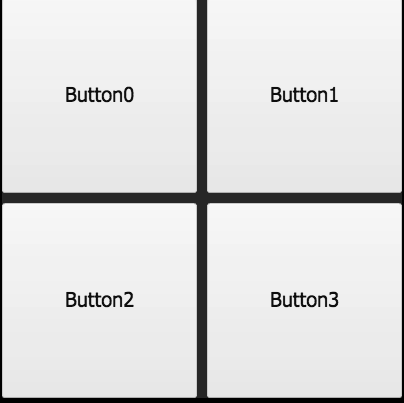
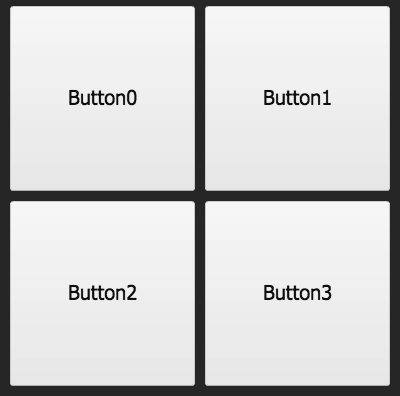
layout

diff --git a/egret-gui/7-1-defaultlayout.md b/egret-gui/7-1-defaultlayout.md
@@ -141,7 +141,7 @@ tileLayout.horizontalGap = 10;
 tileLayout.verticalGap = 10;
 tileLayout.columnAlign = egret.gui.ColumnAlign.JUSTIFY_USING_WIDTH;
 tileLayout.rowAlign = egret.gui.RowAlign.JUSTIFY_USING_HEIGHT;
-tileLayout.padding = 0;
+tileLayout.padding = 10;
 //tileLayout.requestedColumnCount = 2;//设置两列显示
 this.myGroup.layout = tileLayout;
 ```
